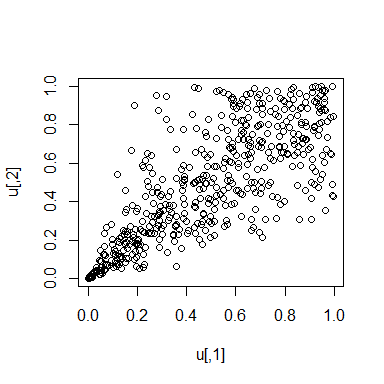
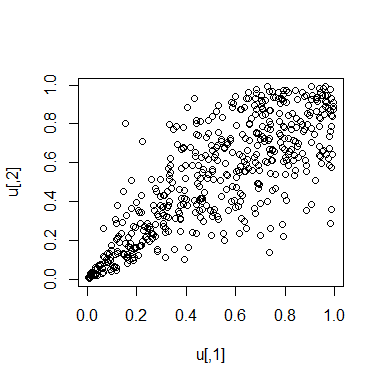
Update plots in README

diff --git a/README.md b/README.md
@@ -41,7 +41,7 @@ The package provides the following functions:
     -   `plot`, `contour`: Surface and contour plots of the
     -   `print`, `summary`: Displays further information about the density estimate.
 
-Look up the package documentation for more details on arguments and options,
+Please look up the package documentation for more details on arguments and options.
 
 ------------------------------------------------------------------------
 
@@ -72,11 +72,11 @@ summary(kde.fit)
 #> -------------------------------------------------- 
 #> Observations: 500 
 #> Method:       TLL2 
-#> Bandwidth:    alpha = 0.5558749
-#>               B = matrix(c(0.69, 0.72, -0.5, 0.48), 2, 2)
+#> Bandwidth:    alpha = 0.5558049
+#>               B = matrix(c(0.72, 0.69, -0.49, 0.51), 2, 2)
 #> -------------------------------------------------- 
-#> logLik: 294.84    AIC: -563.57    cAIC: -562.82    BIC: -508.56 
-#> Effective number of parameters: 13.05
+#> logLik: 301.93    AIC: -579.9    cAIC: -579.26    BIC: -529.4 
+#> Effective number of parameters: 11.98
 ```
 
 The output of the function `kdecop` is an object of class `kdecopula` that contains all information collected during the estimation process and summary statistics such as *AIC* or the *effective number of parameters*.
@@ -87,9 +87,9 @@ The density and *cdf* can be computed easily:
 
 ``` r
 dkdecop(c(0.1, 0.2), kde.fit)
-#> [1] 2.384852
+#> [1] 2.378147
 pkdecop(c(0.1, 0.2), kde.fit)
-#> [1] 0.09245737
+#> [1] 0.09253681
 ```
 
 Furthermore, we can simulate synthetic data from the estimated density:
